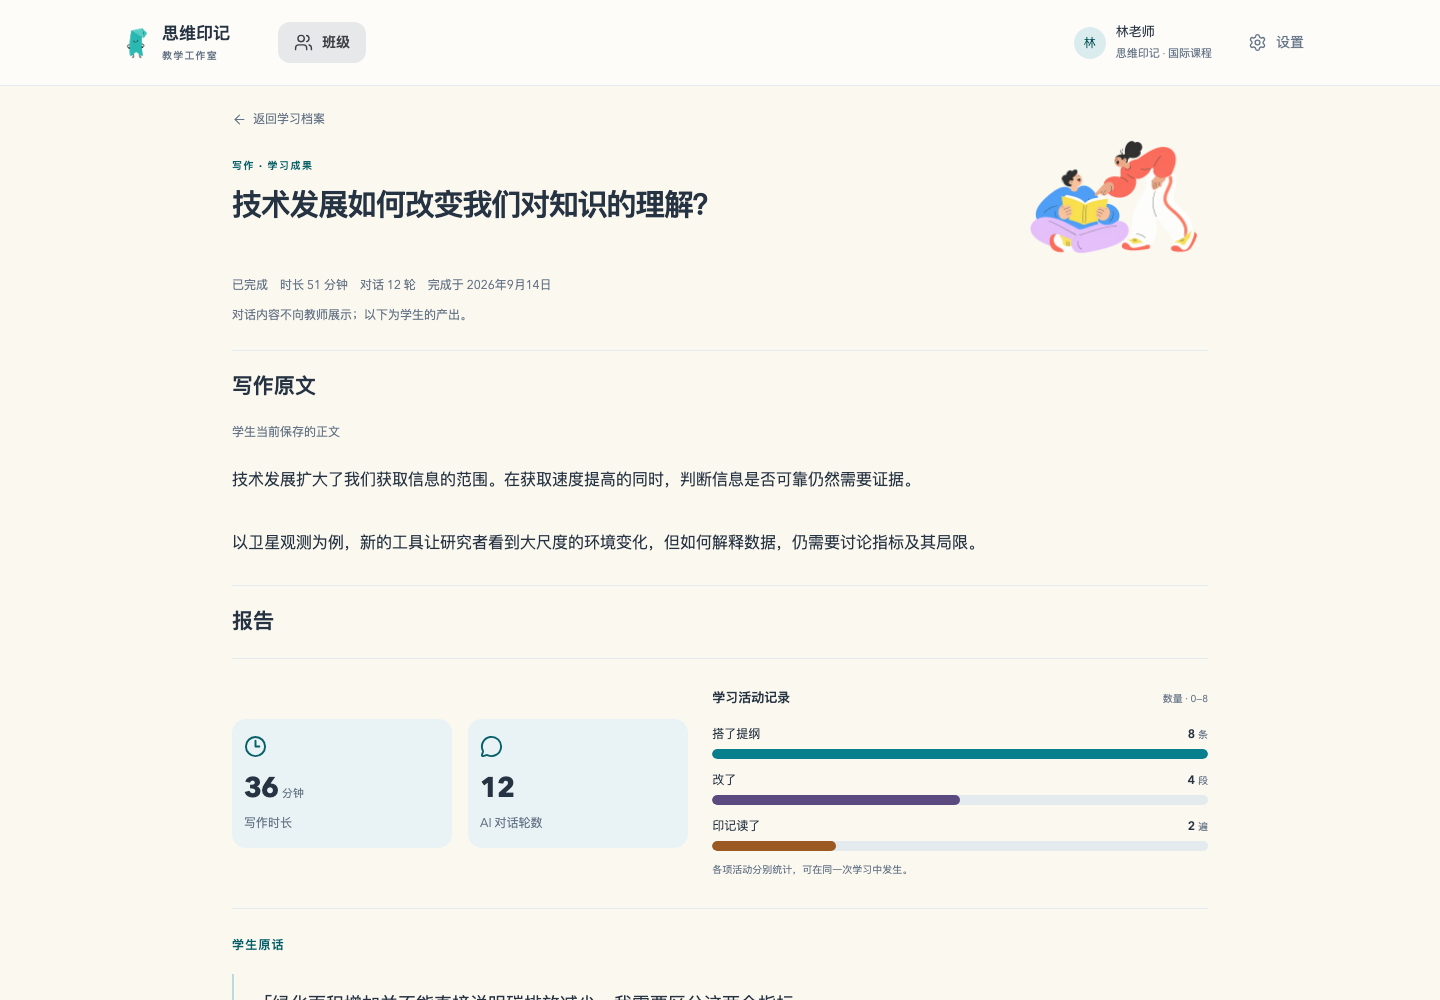
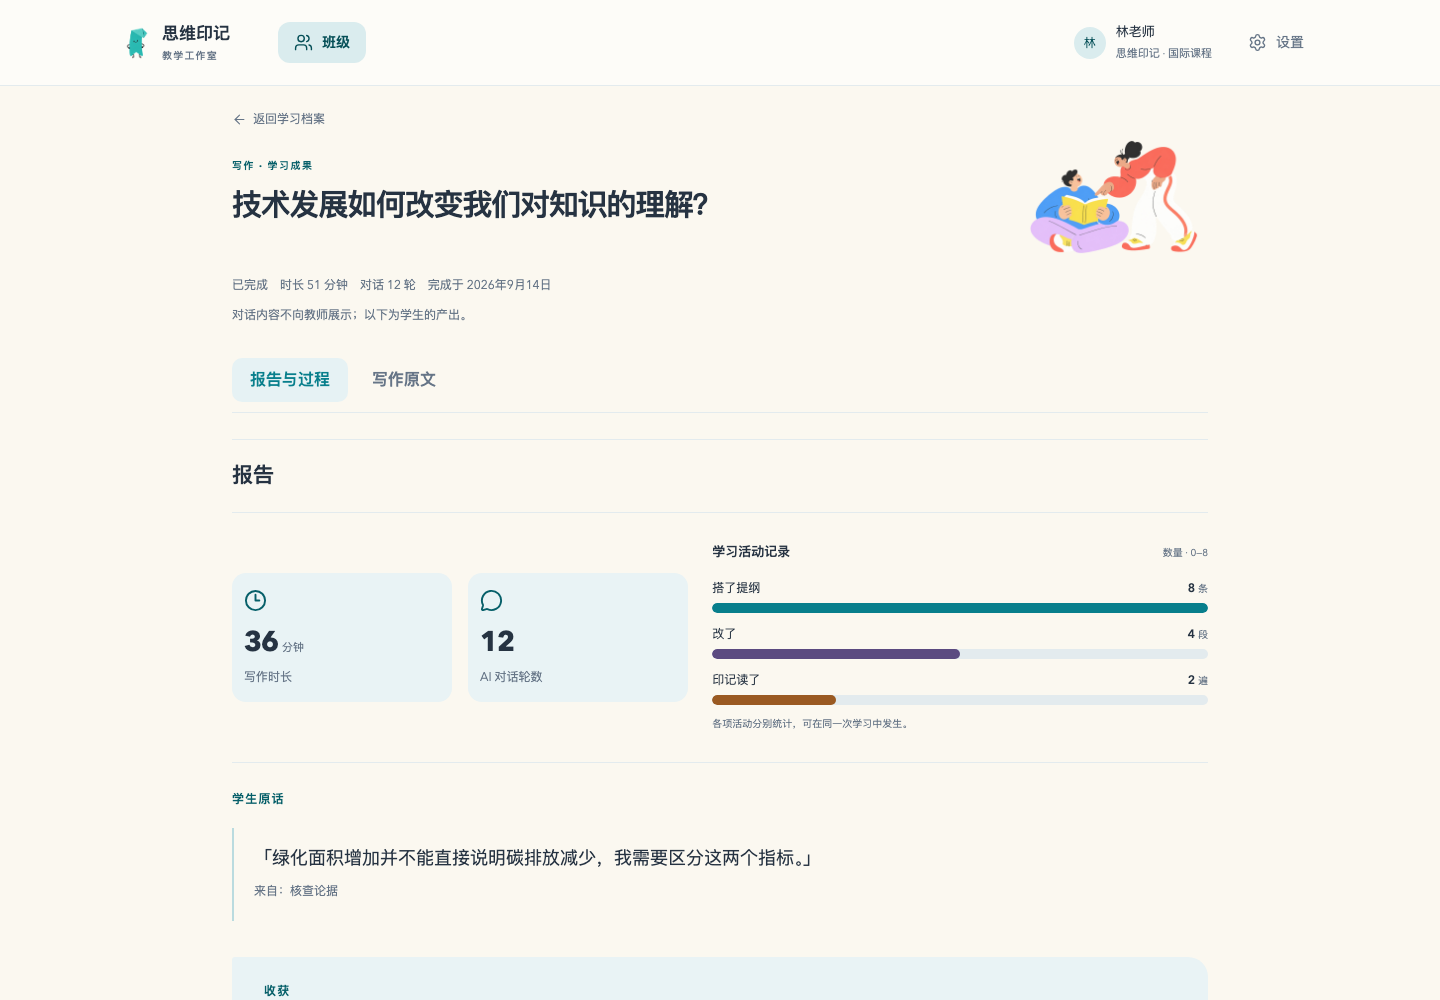
fix(lite): separate long writing document from teacher report

diff --git a/docs/design/lite-teacher-refresh/review.html b/docs/design/lite-teacher-refresh/review.html
@@ -8,6 +8,6 @@
 <header><h1>Lite 教师端 · 教学工作室</h1><p>最新调整：班级活跃环图、学习完成条形图、可筛选的活跃天数分布与学生学习进度。截图使用模拟数据。</p><nav></nav></header>
 <main><h2 id="label">班级首页</h2><img id="preview" src="classes.png" alt="班级首页截图"></main>
 <script>
-const pages=[['student-reading-visual','学生阅读报告'],['student-writing-visual','学生写作报告'],['student-project-visual','学生项目进度'],['reading-visual-export','阅读分享图片'],['writing-visual-export','写作分享图片'],['classes','班级首页'],['class','班级名单'],['student','学生档案'],['reading','阅读报告'],['writing','写作报告'],['project','项目成果'],['reading-details','阅读记录'],['writing-details','写作记录'],['project-details','项目记录'],['student-tree','兴趣树'],['settings','设置'],['classes-dark','深色主题'],['student-1280','笔记本布局'],['classes-empty','暂无班级'],['class-empty','暂无学生'],['student-empty','暂无学习记录']];
+const pages=[['student-reading-visual','学生阅读报告'],['student-writing-visual','学生写作报告'],['student-project-visual','学生项目进度'],['reading-visual-export','阅读分享图片'],['writing-visual-export','写作分享图片'],['classes','班级首页'],['class','班级名单'],['student','学生档案'],['reading','阅读报告'],['writing','写作报告'],['writing-original','写作原文 · 长文'],['project','项目成果'],['reading-details','阅读记录'],['writing-details','写作记录'],['project-details','项目记录'],['student-tree','兴趣树'],['settings','设置'],['classes-dark','深色主题'],['student-1280','笔记本布局'],['classes-empty','暂无班级'],['class-empty','暂无学生'],['student-empty','暂无学习记录']];
 for(const [file,label] of pages){const button=document.createElement('button');button.textContent=label;button.setAttribute('aria-pressed',String(file==='classes'));button.onclick=()=>{document.querySelectorAll('nav button').forEach(b=>b.setAttribute('aria-pressed',String(b===button)));document.getElementById('preview').src=file+'.png';document.getElementById('preview').alt=label+'截图';document.getElementById('label').textContent=label};document.querySelector('nav').append(button)}
 </script></html>

diff --git a/apps/lite-web/src/teacher/ItemPage.tsx b/apps/lite-web/src/teacher/ItemPage.tsx
@@ -189,6 +189,8 @@ function ItemBody({
   proseError: string | null;
 }) {
   const { item } = detail;
+  const [documentView, setDocumentView] = useState<{ id: string; original: boolean } | null>(null);
+  const showOriginal = documentView?.id === item.atomId && documentView.original;
   return (
     <>
       <StudioHeading label={`${kindLabel(item.kind)} · 学习成果`} title={item.title} kind={item.kind === "reading" ? "keepsake" : item.kind} />
@@ -202,6 +204,12 @@ function ItemBody({
       <p className="mt-3 text-mk-small text-mk-muted">对话内容不向教师展示；以下为学生的产出。</p>
 
       {detail.writing && (
+        <nav className="teacher-writing-views" aria-label="写作成果视图">
+          <button type="button" aria-pressed={!showOriginal} onClick={() => setDocumentView({ id: item.atomId, original: false })}>报告与过程</button>
+          <button type="button" aria-pressed={!!showOriginal} onClick={() => setDocumentView({ id: item.atomId, original: true })}>写作原文</button>
+        </nav>
+      )}
+      {detail.writing && showOriginal && (
         <section className="teacher-record-section teacher-writing-original" aria-labelledby="writing-original-heading">
           <h2 id="writing-original-heading" className="text-mk-h3 text-mk-ink">写作原文</h2>
           <p className="mt-1 text-mk-small text-mk-muted">学生当前保存的正文</p>
@@ -213,6 +221,7 @@ function ItemBody({
         </section>
       )}
 
+      {(!detail.writing || !showOriginal) && <>
       <ReportSection
         report={detail.report}
         reportError={detail.reportError}
@@ -223,6 +232,7 @@ function ItemBody({
       <ReadingSection reading={detail.reading} keep={detail.report?.keep ?? null} />
       <WritingSection writing={detail.writing} />
       <ProjectSection project={detail.project} />
+      </>}
     </>
   );
 }

diff --git a/apps/lite-web/src/teacher/teacher-studio.css b/apps/lite-web/src/teacher/teacher-studio.css
@@ -203,3 +203,36 @@
   font-size: 16px;
   line-height: 1.95;
 }
+
+.lite-teacher .teacher-writing-views {
+  display: flex;
+  gap: 6px;
+  position: sticky;
+  top: 0;
+  z-index: 2;
+  margin-top: 24px;
+  padding: 10px 0;
+  background: var(--mk-paper);
+  border-bottom: 1px solid var(--mk-border);
+}
+.lite-teacher .teacher-writing-views button {
+  padding: 10px 18px;
+  border-radius: 10px;
+  color: var(--mk-muted);
+  font-weight: 600;
+}
+.lite-teacher .teacher-writing-views button[aria-pressed="true"] {
+  background: color-mix(in srgb, var(--mk-accent) 10%, var(--mk-surface));
+  color: var(--mk-accent);
+}
+.lite-teacher .teacher-writing-views button:focus-visible {
+  outline: 2px solid var(--mk-accent);
+  outline-offset: 2px;
+}
+.lite-teacher .teacher-writing-original {
+  padding: 32px clamp(24px, 5vw, 64px) 48px;
+  background: var(--mk-surface);
+  border: 1px solid var(--mk-border);
+  border-radius: 16px;
+}
+.lite-teacher .teacher-writing-manuscript { max-width: 42em; }

diff --git a/docs/design/lite-teacher-refresh/README.md b/docs/design/lite-teacher-refresh/README.md
@@ -40,3 +40,7 @@ Type checking, 698 existing tests, production build and browser activity-filter 
 将已有接口返回的 `writing.draft` 提到写作成果页报告之前，命名为「写作原文」，说明为学生当前保存的正文；原文保持完整文本与换行，不再藏在提纲和片段后的「成稿」中。无正文时明确提示尚未保存，提纲、片段和 AI 批注保留在「写作过程」。接口和权限不变。
 
 验证：TypeScript 检查通过；真实 Chromium 使用模拟接口核对全文一致、原文可见、空正文提示与无浏览器错误，更新 writing.png 和 writing-details.png。
+
+### 长篇写作原文阅读
+
+写作成果改为「报告与过程 / 写作原文」两个独立视图，默认报告，全文独立阅读并保留换行；顶部切换入口随滚动保持可用。替代上一次将原文直接放在报告之前的布局。真实 Chromium 用 24 段模拟正文验证完整内容、视图切换及空正文状态，类型检查通过；writing-original.png 为长文阅读预览。
